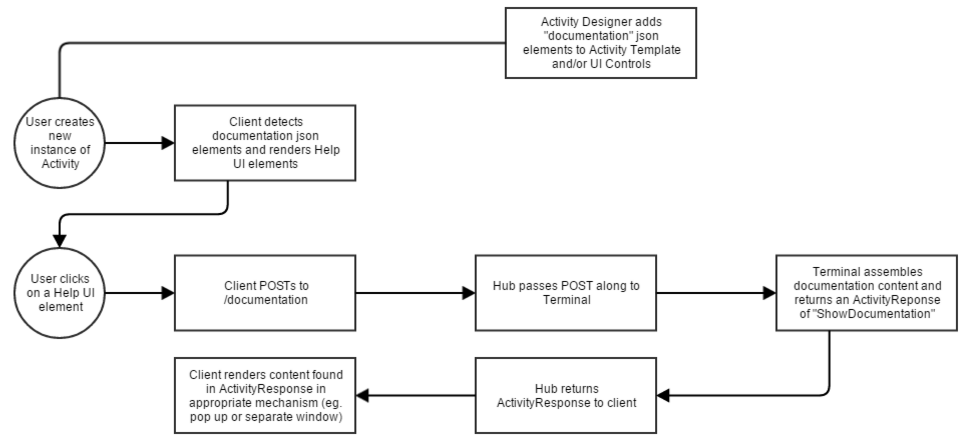
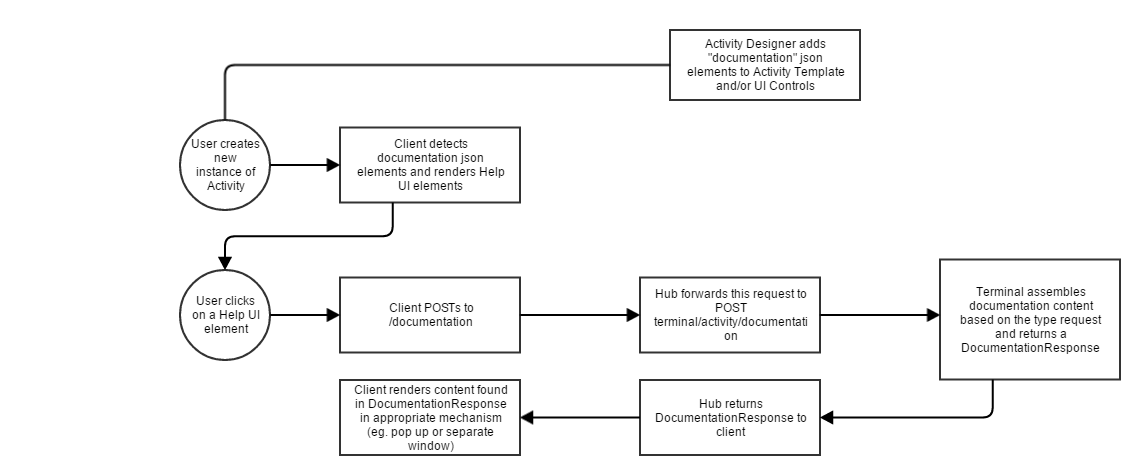
Reworded diagram nodes and small fixes to activities documentation flow

diff --git a/Docs/ForDevelopers/ActivityDevelopmentBuildingDocumentation.md b/Docs/ForDevelopers/ActivityDevelopmentBuildingDocumentation.md
@@ -38,14 +38,16 @@ If an Activity can provide support for documentation requests (doing so is recom
                 "displayMechanism":"HelpMenu"
 }
 ```
-If the client encounters this string, it will display the Help Menu Item in the Activity’s Settings menu and POST to  /actions/documentation/ when the Help Menu is clicked/hovered.
+If the client encounters this string, it will display the Help Menu Item in the Activity’s Settings menu and POST to  `/activities/documentation/` when the Help Menu is clicked/hovered.
 
-At tthat his point, the Activity should assemble HTML content and pack it into a “ShowDocumentation” [ActivityResponse](/Docs/ForDevelopers/Objects/Activities/ActivityResponses.md) [add to ActivityResponse docs] such as:
+At that his point, the Activity should assemble HTML content and pack it into a `DocumentationResponse` which structure is displayed below:
 
 ```javascript
 {
-"type": "ShowDocumentation" //Here might be Error, if contantPath is unknown
-"body": "This solution interacts with the DocuSign service and provides a way to Track DocuSign Recipients. Yadda, yadda, yadda"
+"name" : "Buil_Message",
+"version": "1",
+"terminal" : "Fr8 Core",
+"body" : "<h1>Some HTML goes here</h1>"
 }
 ```
 The client will render the provide content by popping up a help dialog window.
@@ -56,7 +58,7 @@ The client will render the provide content by popping up a help dialog window.
 
 An Activity Overview is a page that describes an activity. It’s similar to the page generated by a Help Menu request (see above) but is intended for use outside of actual Plan design. An Activity Overview is a page that will show up in a directory of different activities, while Help Menu content will show up when the user is in the Plan Builder trying to build an actual Plan.
 
-Activity Overviews are currently requested by the Fr8.co website on pages such as https://fr8.co/Services/DocuSign.  To request an Activity Overview, the caller posts to /documentation with displayMechanism set to “MainPage”. The resulting data is formatted as a TerminalContent json element, which looks like this:
+Activity Overviews are currently requested by the Fr8.co website on pages such as https://fr8.co/Services/DocuSign.  To request an Activity Overview, the caller posts to `/activities/documentation` with displayMechanism set to “MainPage”. The resulting data is formatted as a TerminalContent json element, which looks like this:
 
 Element |	Description |	Notes
 --- | --- | ---
